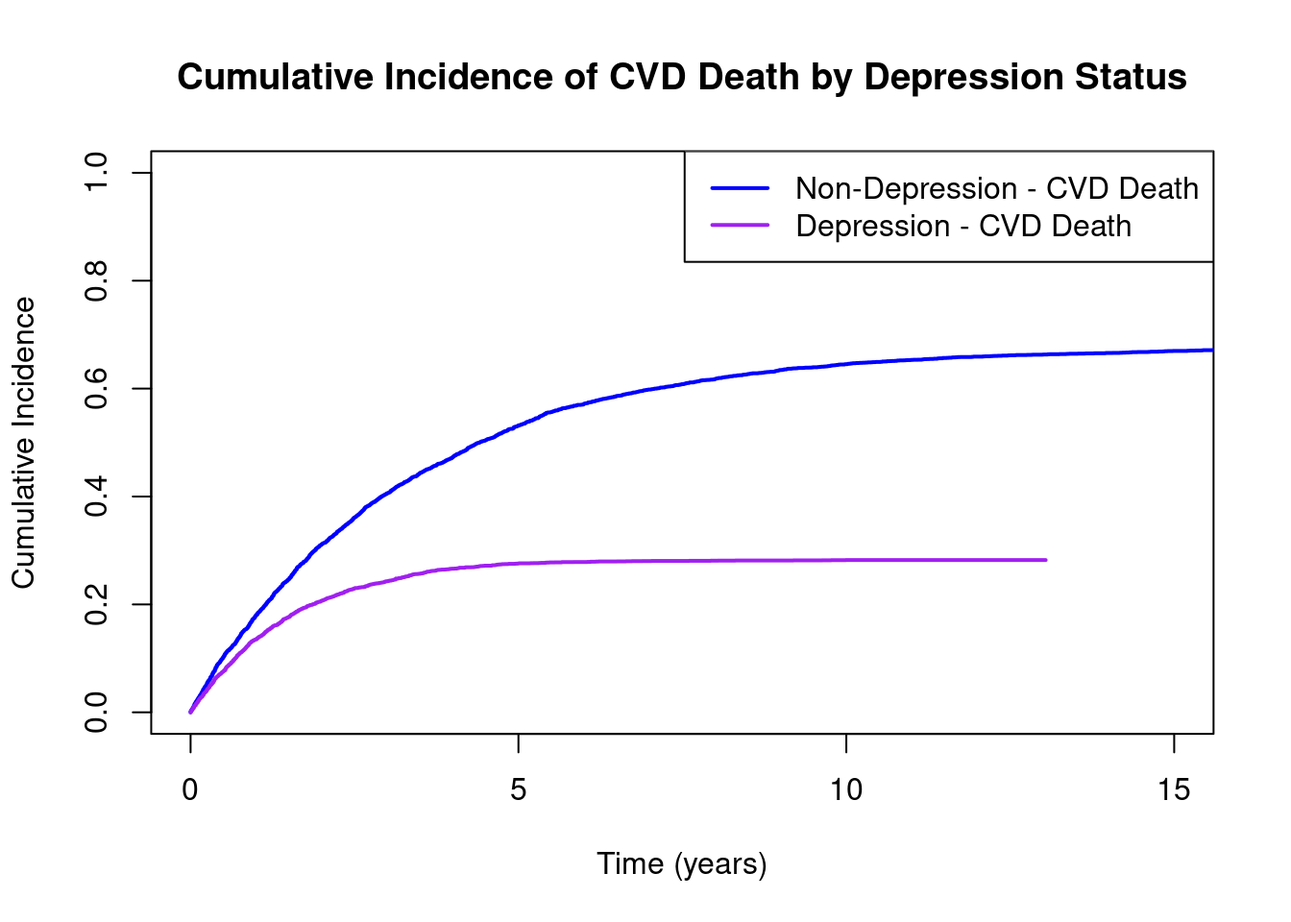
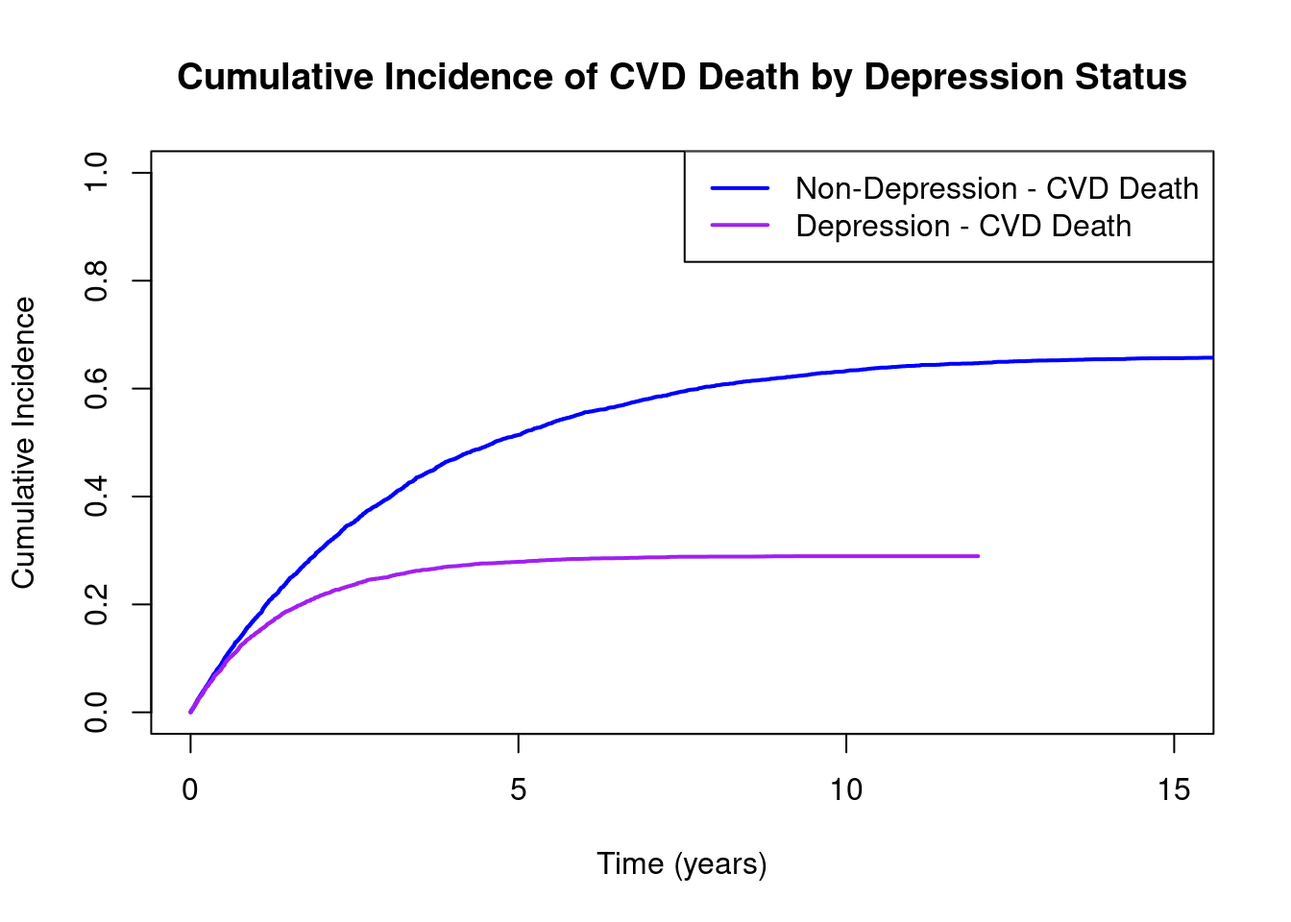
s

diff --git a/docs/posts/2025-01-03-comeptingrisk/index.html b/docs/posts/2025-01-03-comeptingrisk/index.html
@@ -208,8 +208,12 @@ window.Quarto = {
   <ul class="collapse">
 <li><a href="#fine-gray-method" id="toc-fine-gray-method" class="nav-link" data-scroll-target="#fine-gray-method">Fine-Gray Method</a></li>
   <li><a href="#fine-gray-method-%EC%99%80-%EC%A0%84%ED%86%B5%EC%A0%81-%EC%83%9D%EC%A1%B4%ED%95%A8%EC%88%98-%EB%B9%84%EA%B5%90" id="toc-fine-gray-method-와-전통적-생존함수-비교" class="nav-link" data-scroll-target="#fine-gray-method-%EC%99%80-%EC%A0%84%ED%86%B5%EC%A0%81-%EC%83%9D%EC%A1%B4%ED%95%A8%EC%88%98-%EB%B9%84%EA%B5%90">Fine-Gray Method 와 전통적 생존함수 비교</a></li>
-  <li><a href="#how-to-interpret" id="toc-how-to-interpret" class="nav-link" data-scroll-target="#how-to-interpret">How to Interpret</a></li>
-  <li><a href="#ps.-censoring%EC%9D%B4-%EC%A1%B4%EC%9E%AC%ED%95%98%EB%8A%94-%EA%B2%BD%EC%9A%B0" id="toc-ps.-censoring이-존재하는-경우" class="nav-link" data-scroll-target="#ps.-censoring%EC%9D%B4-%EC%A1%B4%EC%9E%AC%ED%95%98%EB%8A%94-%EA%B2%BD%EC%9A%B0">PS. Censoring이 존재하는 경우</a></li>
+  <li>
+<a href="#how-to-interpret" id="toc-how-to-interpret" class="nav-link" data-scroll-target="#how-to-interpret">How to Interpret</a>
+  <ul class="collapse">
+<li><a href="#ps.-censoring%EC%9D%B4-%EC%A1%B4%EC%9E%AC%ED%95%98%EB%8A%94-%EA%B2%BD%EC%9A%B0" id="toc-ps.-censoring이-존재하는-경우" class="nav-link" data-scroll-target="#ps.-censoring%EC%9D%B4-%EC%A1%B4%EC%9E%AC%ED%95%98%EB%8A%94-%EA%B2%BD%EC%9A%B0">PS. Censoring이 존재하는 경우</a></li>
+  </ul>
+</li>
   </ul>
 </li>
   </ul></nav>
@@ -314,41 +318,27 @@ h_k^{sd}(t) = \lim_{\Delta t \to 0} \frac{P(t \leq T &lt; t+\Delta t, \text{Caus
 <span><span class="fu"><a href="https://rdrr.io/r/utils/head.html">head</a></span><span class="op">(</span><span class="va">sample_data</span>, n<span class="op">=</span> <span class="fl">15</span><span class="op">)</span></span></code><button title="Copy to Clipboard" class="code-copy-button"><i class="bi"></i></button></pre></div>
 <div class="cell-output cell-output-stdout">
 <pre><code>   ID  Time Event    Sex Depression CVD_time
-1   1  1.00     1   Male         No     1.00
-2   2  3.30     1 Female         No     3.30
-3   3  0.01     1   Male         No     0.01
-4   4  0.41     1   Male         No     0.41
-5   5  1.24     2 Female         No     5.22
-6   6  2.87     1 Female         No     2.87
-7   7  8.35     2 Female         No    21.07
-8   8  0.52     1 Female         No     0.52
-9   9  0.31     2 Female         No    17.83
-10 10 18.72     1 Female         No    18.72
-11 11  1.11     2 Female         No     4.05
-12 12  9.36     1 Female         No     9.36
-13 13  0.68     1 Female         No     0.68
-14 14  5.99     1 Female         No     5.99
-15 15  2.20     1   Male         No     2.20</code></pre>
+1   1  0.09     1 Female         No     0.09
+2   2  9.70     1   Male         No     9.70
+3   3  0.55     1 Female         No     0.55
+4   4  3.14     2   Male         No     5.61
+5   5  0.21     1 Female         No     0.21
+6   6  7.83     2 Female         No     9.28
+7   7 11.03     2 Female         No    13.14
+8   8  0.15     2 Female         No     0.53
+9   9  4.45     1 Female         No     4.45
+10 10  0.64     1   Male         No     0.64
+11 11  9.53     1   Male         No     9.53
+12 12  1.11     1 Female         No     1.11
+13 13  7.09     1 Female         No     7.09
+14 14  7.75     1   Male         No     7.75
+15 15  7.96     2   Male         No    18.80</code></pre>
 </div>
 </div>
 <p>데이터에서 Time은 Death(CVD, non-CVD 포함)가 발생한 시점입니다. R의 cmprsk 패키지를 통해 fine gray method로 분석을 진행하고, 전통적 생존 분석또한 함께 진행해보겠습니다.</p>
 <div class="cell">
-<div class="sourceCode" id="cb3"><pre class="downlit sourceCode r code-with-copy"><code class="sourceCode R"><span><span class="kw"><a href="https://rdrr.io/r/base/library.html">library</a></span><span class="op">(</span><span class="va"><a href="https://dplyr.tidyverse.org">dplyr</a></span><span class="op">)</span>;<span class="kw"><a href="https://rdrr.io/r/base/library.html">library</a></span><span class="op">(</span><span class="va"><a href="https://github.com/therneau/survival">survival</a></span><span class="op">)</span>;<span class="kw"><a href="https://rdrr.io/r/base/library.html">library</a></span><span class="op">(</span><span class="va"><a href="https://github.com/jinseob2kim/jstable">jstable</a></span><span class="op">)</span></span></code><button title="Copy to Clipboard" class="code-copy-button"><i class="bi"></i></button></pre></div>
-<div class="cell-output cell-output-stderr">
-<pre><code>
-Attaching package: 'dplyr'</code></pre>
-</div>
-<div class="cell-output cell-output-stderr">
-<pre><code>The following objects are masked from 'package:stats':
-
-    filter, lag</code></pre>
-</div>
-<div class="cell-output cell-output-stderr">
-<pre><code>The following objects are masked from 'package:base':
-
-    intersect, setdiff, setequal, union</code></pre>
-</div>
-<div class="sourceCode" id="cb7"><pre class="downlit sourceCode r code-with-copy"><code class="sourceCode R"><span><span class="va">sample_data</span> <span class="op">&lt;-</span> <span class="va">sample_data</span> <span class="op"><a href="https://magrittr.tidyverse.org/reference/pipe.html">%&gt;%</a></span></span>
+<div class="sourceCode" id="cb3"><pre class="downlit sourceCode r code-with-copy"><code class="sourceCode R"><span><span class="kw"><a href="https://rdrr.io/r/base/library.html">library</a></span><span class="op">(</span><span class="va"><a href="https://dplyr.tidyverse.org">dplyr</a></span><span class="op">)</span>;<span class="kw"><a href="https://rdrr.io/r/base/library.html">library</a></span><span class="op">(</span><span class="va"><a href="https://github.com/therneau/survival">survival</a></span><span class="op">)</span>;<span class="kw"><a href="https://rdrr.io/r/base/library.html">library</a></span><span class="op">(</span><span class="va"><a href="https://github.com/jinseob2kim/jstable">jstable</a></span><span class="op">)</span></span>
+<span><span class="va">sample_data</span> <span class="op">&lt;-</span> <span class="va">sample_data</span> <span class="op"><a href="https://magrittr.tidyverse.org/reference/pipe.html">%&gt;%</a></span></span>
 <span>  <span class="fu"><a href="https://dplyr.tidyverse.org/reference/mutate.html">mutate</a></span><span class="op">(</span></span>
 <span>    Sex_num <span class="op">=</span> <span class="fu"><a href="https://rdrr.io/r/base/ifelse.html">ifelse</a></span><span class="op">(</span><span class="va">Sex</span> <span class="op">==</span> <span class="st">"Male"</span>, <span class="fl">1</span>, <span class="fl">0</span><span class="op">)</span>,</span>
 <span>    Depression_num <span class="op">=</span> <span class="fu"><a href="https://rdrr.io/r/base/ifelse.html">ifelse</a></span><span class="op">(</span><span class="va">Depression</span> <span class="op">==</span> <span class="st">"Yes"</span>, <span class="fl">1</span>, <span class="fl">0</span><span class="op">)</span></span>
@@ -358,15 +348,15 @@ Attaching package: 'dplyr'</code></pre>
 <span><span class="fu"><a href="https://rdrr.io/pkg/jstable/man/cox2.display.html">cox2.display</a></span><span class="op">(</span><span class="va">cox_csh</span><span class="op">)</span></span></code><button title="Copy to Clipboard" class="code-copy-button"><i class="bi"></i></button></pre></div>
 <div class="cell-output cell-output-stdout">
 <pre><code>$table
-               HR(95%CI)         P value
-Depression_num "0.96 (0.9,1.03)" "0.225"
+               HR(95%CI)          P value
+Depression_num "1.02 (0.95,1.09)" "0.594"
 
 $metric
-                        [,1] [,2]
-&lt;NA&gt;                      NA   NA
-No. of observations 10000.00   NA
-No. of events        4797.00   NA
-AIC                 77407.56   NA
+                     [,1] [,2]
+&lt;NA&gt;                   NA   NA
+No. of observations 10000   NA
+No. of events        4769   NA
+AIC                 77042   NA
 
 $caption
 [1] "Cox model on time ('NA, surv_object_csh, character(0)') to event ('surv_object_csh')"</code></pre>
@@ -374,7 +364,7 @@ $caption
 </div>
 <p>exp(coef= beta)즉 Hazard ratio가 1이고 p-value가 0.936으로, 우울증 여부가 CVD-death에 영향을 미치지 않는 다는 것을 알 수 있습니다. 이는 데이터를 만들때의 가정과 동일하기 때문에 전통적 생존분석은 이를 잘 반영한다는 것을 알 수 있습니다. 이번엔 competing risk를 고려한 fine gray method로 분석을 해보겠습니다.</p>
 <div class="cell">
-<div class="sourceCode" id="cb9"><pre class="downlit sourceCode r code-with-copy"><code class="sourceCode R"><span><span class="kw"><a href="https://rdrr.io/r/base/library.html">library</a></span><span class="op">(</span><span class="va"><a href="https://www.R-project.org">cmprsk</a></span><span class="op">)</span></span>
+<div class="sourceCode" id="cb5"><pre class="downlit sourceCode r code-with-copy"><code class="sourceCode R"><span><span class="kw"><a href="https://rdrr.io/r/base/library.html">library</a></span><span class="op">(</span><span class="va"><a href="https://www.R-project.org">cmprsk</a></span><span class="op">)</span></span>
 <span><span class="va">ftime</span> <span class="op">&lt;-</span> <span class="va">sample_data</span><span class="op">$</span><span class="va">Time</span></span>
 <span><span class="va">fstatus</span> <span class="op">&lt;-</span> <span class="va">sample_data</span><span class="op">$</span><span class="va">Event</span></span>
 <span><span class="va">covariates</span> <span class="op">&lt;-</span> <span class="va">sample_data</span> <span class="op"><a href="https://magrittr.tidyverse.org/reference/pipe.html">%&gt;%</a></span> <span class="fu"><a href="https://dplyr.tidyverse.org/reference/select.html">select</a></span><span class="op">(</span><span class="va">Depression_num</span><span class="op">)</span></span>
@@ -387,19 +377,19 @@ Call:
 crr(ftime = ftime, fstatus = fstatus, cov1 = covariates)
 
                 coef exp(coef) se(coef)     z p-value
-Depression_num -1.08     0.338   0.0332 -32.6       0
+Depression_num -1.02     0.362    0.033 -30.8       0
 
                exp(coef) exp(-coef)  2.5% 97.5%
-Depression_num     0.338       2.96 0.317 0.361
+Depression_num     0.362       2.76 0.339 0.386
 
 Num. cases = 10000
-Pseudo Log-likelihood = -42143 
-Pseudo likelihood ratio test = 1289  on 1 df,</code></pre>
+Pseudo Log-likelihood = -41981 
+Pseudo likelihood ratio test = 1134  on 1 df,</code></pre>
 </div>
 </div>
 <p>exp(coef) 즉 subdistribution hazard ratio가 0.363이고, p value 가 &lt;0.01임으로 우울증이 있는 사람에게는 CVD-death가 덜 발생한다고 해석할 수 있습니다. 우울증 여부가 CVD-death에 영향을 미치지 않게 데이터를 만들었는데 왜 이런 결과가 나왔는지 그리고 서로 다르게 나온 두 결과를 각각 어떻게 해석해야 되는지를 알아보겠습니다. 우울증 환자와 비 우울증 환자에서 CVD-death에 대한 CIF를 한번 그려보도록 하겠습니다.</p>
 <div class="cell">
-<div class="sourceCode" id="cb11"><pre class="downlit sourceCode r code-with-copy"><code class="sourceCode R"><span><span class="va">group</span> <span class="op">&lt;-</span> <span class="va">sample_data</span><span class="op">$</span><span class="va">Depression_num</span></span>
+<div class="sourceCode" id="cb7"><pre class="downlit sourceCode r code-with-copy"><code class="sourceCode R"><span><span class="va">group</span> <span class="op">&lt;-</span> <span class="va">sample_data</span><span class="op">$</span><span class="va">Depression_num</span></span>
 <span><span class="va">cif_cvd</span> <span class="op">&lt;-</span> <span class="fu"><a href="https://rdrr.io/pkg/cmprsk/man/cuminc.html">cuminc</a></span><span class="op">(</span><span class="va">ftime</span>, <span class="va">fstatus</span>, group <span class="op">=</span> <span class="va">group</span>, cencode <span class="op">=</span> <span class="fl">0</span><span class="op">)</span></span>
 <span><span class="fu"><a href="https://rdrr.io/r/graphics/plot.default.html">plot</a></span><span class="op">(</span><span class="fl">1</span>, type <span class="op">=</span> <span class="st">"n"</span>, xlab <span class="op">=</span> <span class="st">"Time (years)"</span>, ylab <span class="op">=</span> <span class="st">"Cumulative Incidence"</span>,</span>
 <span>     xlim <span class="op">=</span> <span class="fu"><a href="https://rdrr.io/r/base/c.html">c</a></span><span class="op">(</span><span class="fl">0</span>, <span class="fl">15</span><span class="op">)</span>, ylim <span class="op">=</span> <span class="fu"><a href="https://rdrr.io/r/base/c.html">c</a></span><span class="op">(</span><span class="fl">0</span>, <span class="fl">1</span><span class="op">)</span>,</span>
@@ -421,7 +411,7 @@ Pseudo likelihood ratio test = 1289  on 1 df,</code></pre>
 </div>
 <p>우울증 여부가 CVD-death에 영향을 미치지 않는다 하더라고, 우울증 환자에게서 CVD-death가 덜 발생한다는 것을 관찰할 수 있습니다. 이는 우울증 환자에서 이미 non-CVD death를 경험하여 CVD-death를 경험할 수 없기 때문이라는 것을 CVD, non-CVD death에 대한 CIF로 알아볼 수 있습니다.</p>
 <div class="cell">
-<div class="sourceCode" id="cb12"><pre class="downlit sourceCode r code-with-copy"><code class="sourceCode R"><span><span class="fu"><a href="https://rdrr.io/r/graphics/plot.default.html">plot</a></span><span class="op">(</span><span class="fl">1</span>, type <span class="op">=</span> <span class="st">"n"</span>, xlab <span class="op">=</span> <span class="st">"Time (years)"</span>, ylab <span class="op">=</span> <span class="st">"Cumulative Incidence"</span>,</span>
+<div class="sourceCode" id="cb8"><pre class="downlit sourceCode r code-with-copy"><code class="sourceCode R"><span><span class="fu"><a href="https://rdrr.io/r/graphics/plot.default.html">plot</a></span><span class="op">(</span><span class="fl">1</span>, type <span class="op">=</span> <span class="st">"n"</span>, xlab <span class="op">=</span> <span class="st">"Time (years)"</span>, ylab <span class="op">=</span> <span class="st">"Cumulative Incidence"</span>,</span>
 <span>     xlim <span class="op">=</span> <span class="fu"><a href="https://rdrr.io/r/base/c.html">c</a></span><span class="op">(</span><span class="fl">0</span>, <span class="fl">15</span><span class="op">)</span>, ylim <span class="op">=</span> <span class="fu"><a href="https://rdrr.io/r/base/c.html">c</a></span><span class="op">(</span><span class="fl">0</span>, <span class="fl">1</span><span class="op">)</span>,</span>
 <span>     main <span class="op">=</span> <span class="st">"Cumulative Incidence of CVD Death by Depression Status"</span><span class="op">)</span></span>
 <span><span class="fu"><a href="https://rdrr.io/r/graphics/lines.html">lines</a></span><span class="op">(</span><span class="va">cif_cvd</span><span class="op">[[</span><span class="fl">1</span><span class="op">]</span><span class="op">]</span><span class="op">$</span><span class="va">time</span>, <span class="va">cif_cvd</span><span class="op">[[</span><span class="fl">1</span><span class="op">]</span><span class="op">]</span><span class="op">$</span><span class="va">est</span>, col <span class="op">=</span> <span class="st">"blue"</span>, lty <span class="op">=</span> <span class="fl">1</span>, lwd <span class="op">=</span> <span class="fl">2</span><span class="op">)</span></span>
@@ -444,7 +434,7 @@ Pseudo likelihood ratio test = 1289  on 1 df,</code></pre>
 </div>
 <p>실제로 Depression 군에서는 non-CVD death가 급격하게 많이 발생하여, CVD-death의 CIF가 낮게 나오고 있다는 것을 확인 할 수 있습니다. non-CVD death가 발생하지 않은 경우를 가정하여 만들어 놓은 CVD_time변수로 Depression군과 non-Depression 군의 CIF를 비교해보도록 하겠습니다.</p>
 <div class="cell">
-<div class="sourceCode" id="cb13"><pre class="downlit sourceCode r code-with-copy"><code class="sourceCode R"><span><span class="kw"><a href="https://rdrr.io/r/base/library.html">library</a></span><span class="op">(</span><span class="va"><a href="https://www.R-project.org">cmprsk</a></span><span class="op">)</span></span>
+<div class="sourceCode" id="cb9"><pre class="downlit sourceCode r code-with-copy"><code class="sourceCode R"><span><span class="kw"><a href="https://rdrr.io/r/base/library.html">library</a></span><span class="op">(</span><span class="va"><a href="https://www.R-project.org">cmprsk</a></span><span class="op">)</span></span>
 <span><span class="va">ftime</span> <span class="op">&lt;-</span> <span class="va">sample_data</span><span class="op">$</span><span class="va">CVD_time</span></span>
 <span><span class="va">fstatus</span> <span class="op">&lt;-</span> <span class="fl">1</span></span>
 <span><span class="va">group</span> <span class="op">&lt;-</span> <span class="va">sample_data</span><span class="op">$</span><span class="va">Depression_num</span></span>
@@ -469,10 +459,10 @@ Pseudo likelihood ratio test = 1289  on 1 df,</code></pre>
 <p>두개의 그래프가 거의 일치하는 것을 확인할 수 있습니다. 즉 Competing risk의 존재는, 실제로 우울증이 CVD death에 영향을 미치지 않더라고, CIF에는 변화를 줄 수 있다는 것을 확인할 수 있습니다.</p>
 </section><section id="how-to-interpret" class="level2"><h2 class="anchored" data-anchor-id="how-to-interpret">How to Interpret</h2>
 <p>지금까지 얻은 정보를 종합하여, <strong>cause-specific hazard</strong>와 <strong>subdistribution hazard</strong> 함수가 각각 어떤 질문에 적합한지, 어떤 내용을 설명하는지 정리해보겠습니다. <strong>Cause-specific hazard function</strong>은 “A라는 변수가 실제로 B에 영향을 미치는가?”와 같은 <strong>원인적(etiologic)</strong> 질문에 더 적합한 함수입니다. 예를 들어, “우울증이 CVD 사망을 유발하는가?”라는 질문에 답하기 위해서는 cause-specific hazard function을 사용하는 것이 더 적절할 수 있습니다. 반면, <strong>subdistribution hazard ratio</strong>는 “우울증이 CVD 사망의 발생률에 어떤 영향을 미치는가?”와 같은 <strong>예후(prognostic)</strong> 질문에 더 적합한 함수입니다. 이는 subdistribution hazard ratio가 <strong>Cumulative Incidence Function (CIF)</strong>을 직접적으로 추정하기 때문에, CIF 함수와 긴밀하게 연관되어 있습니다. 따라서 예후를 예측하는 측면에서는 Fine-Gray 방법을 이용한 분석이, 원인을 분석하는 측면에서는 전통적인 생존 분석이 더 적절합니다. 두 분석 결과를 함께 고려함으로써, 경쟁 위험이 존재하는 상황에서 관심 있는 사건에 영향을 미치는 요인들에 대한 포괄적인 분석을 수행할 수 있습니다.</p>
-</section><section id="ps.-censoring이-존재하는-경우" class="level2"><h2 class="anchored" data-anchor-id="ps.-censoring이-존재하는-경우">PS. Censoring이 존재하는 경우</h2>
+<section id="ps.-censoring이-존재하는-경우" class="level3"><h3 class="anchored" data-anchor-id="ps.-censoring이-존재하는-경우">PS. Censoring이 존재하는 경우</h3>
 <p>Subdistribution hazard function을 살펴볼 때, censoring이 존재하지 않고 환자를 이벤트가 발생할 때까지 관찰할 수 있다는 가정(complete data로 통칭)하에 risk set이 정의가 되었습니다. Censoring이 존재하는 경우 risk set이 어떻게 존재하는지 알아보겠습니다. Complete data의 경우 competing risk가 발생한 환자도, 발생한 시점 외에도 계속 한명의 존재로 risk set에 남아있다는 것을, 앞선 subdistribution hazard function의 유도과정에서 살펴보았습니다. Censoring이 생기는 경우 IPCW(Inverse probability censor weighting)이라는 방법을 통해, censoring이 된 환자의 예후를 반영하는 방법을 fine-gray method에서 사용하고 있습니다. 시점 t에서 100명이 생존한 와중에 60명이 censoring되고 40명에게 event가 발생하거나, 관측되거나 했다고 가정해봅시다. Censoring이라는 과정이 환자의 event 발생여부나 baseline에 관계없이 발생한다는 가정이 있다면 남은 40명에게 각각 2.5배의 가중치를 준다면, censoring이 발생하지 않고 100명을 계속 관측하는 것과 동일한 결과를 얻을 수 있다는 것이 IPCW의 방법론입니다. 따라서 시점 t이전에 competing event가 발생한 사람의 경우 여전히 한명으로 risk set에 기여를 하게 되고, 시점 t에서 censoring된 사람들은 2.5배의 가중치를 받아 risk set과 event set에 반영이 됩니다. 즉 competing risk가 발생한 환자들의 경우 여전히 한명으로 risk set에 기여하지만, 실질적으로 기여하는 가중치는 적어진다는 것을 알 수 있습니다. 이를 반영한 것이 survival package의 finegray함수이며, 이를 이용하여 finegray method를 통한 분석 또한 가능합니다.</p>
 <div class="cell">
-<div class="sourceCode" id="cb14"><pre class="downlit sourceCode r code-with-copy"><code class="sourceCode R"><span><span class="kw"><a href="https://rdrr.io/r/base/library.html">library</a></span><span class="op">(</span><span class="va"><a href="https://github.com/therneau/survival">survival</a></span><span class="op">)</span></span>
+<div class="sourceCode" id="cb10"><pre class="downlit sourceCode r code-with-copy"><code class="sourceCode R"><span><span class="kw"><a href="https://rdrr.io/r/base/library.html">library</a></span><span class="op">(</span><span class="va"><a href="https://github.com/therneau/survival">survival</a></span><span class="op">)</span></span>
 <span><span class="va">data</span> <span class="op">&lt;-</span> <span class="va">mgus2</span></span>
 <span><span class="va">data</span><span class="op">$</span><span class="va">etime</span> <span class="op">&lt;-</span> <span class="fu"><a href="https://rdrr.io/r/base/with.html">with</a></span><span class="op">(</span><span class="va">data</span>, <span class="fu"><a href="https://rdrr.io/r/base/ifelse.html">ifelse</a></span><span class="op">(</span><span class="va">pstat</span><span class="op">==</span><span class="fl">0</span>, <span class="va">futime</span>, <span class="va">ptime</span><span class="op">)</span><span class="op">)</span></span>
 <span><span class="va">data</span><span class="op">$</span><span class="va">event</span> <span class="op">&lt;-</span> <span class="fu"><a href="https://rdrr.io/r/base/with.html">with</a></span><span class="op">(</span><span class="va">data</span>, <span class="fu"><a href="https://rdrr.io/r/base/ifelse.html">ifelse</a></span><span class="op">(</span><span class="va">pstat</span><span class="op">==</span><span class="fl">0</span>, <span class="fl">2</span><span class="op">*</span><span class="va">death</span>, <span class="fl">1</span><span class="op">)</span><span class="op">)</span></span>
@@ -498,7 +488,7 @@ Pseudo likelihood ratio test = 1289  on 1 df,</code></pre>
 </div>
 <p>데이터에서 볼 수 있듯이 competing risk가 발생한 환자의 경우 추적 종료까지 risk set에 기여도는 낮아지지만, 끝까지 포함되어 있다는 것을 알 수 있습니다. 또한 얻은 pdata로 기존의 생존분석과 같은 함수를 사용하면, 가중치가 반영되어 fine gray method로 구한 subdistribution hazard function에 대한 coefficient값을 얻을 수 있다는 것을 알 수 있습니다.</p>
 <div class="cell">
-<div class="sourceCode" id="cb16"><pre class="downlit sourceCode r code-with-copy"><code class="sourceCode R"><span><span class="va">fgfit</span> <span class="op">&lt;-</span> <span class="fu"><a href="https://rdrr.io/pkg/survival/man/coxph.html">coxph</a></span><span class="op">(</span><span class="fu"><a href="https://rdrr.io/pkg/survival/man/Surv.html">Surv</a></span><span class="op">(</span><span class="va">fgstart</span>, <span class="va">fgstop</span>, <span class="va">fgstatus</span><span class="op">)</span> <span class="op">~</span> <span class="va">age</span><span class="op">+</span><span class="va">sex</span>,</span>
+<div class="sourceCode" id="cb12"><pre class="downlit sourceCode r code-with-copy"><code class="sourceCode R"><span><span class="va">fgfit</span> <span class="op">&lt;-</span> <span class="fu"><a href="https://rdrr.io/pkg/survival/man/coxph.html">coxph</a></span><span class="op">(</span><span class="fu"><a href="https://rdrr.io/pkg/survival/man/Surv.html">Surv</a></span><span class="op">(</span><span class="va">fgstart</span>, <span class="va">fgstop</span>, <span class="va">fgstatus</span><span class="op">)</span> <span class="op">~</span> <span class="va">age</span><span class="op">+</span><span class="va">sex</span>,</span>
 <span>               weight<span class="op">=</span><span class="va">fgwt</span>, data<span class="op">=</span><span class="va">pdata</span>, model <span class="op">=</span> <span class="cn">T</span><span class="op">)</span></span>
 <span><span class="fu"><a href="https://rdrr.io/r/base/summary.html">summary</a></span><span class="op">(</span><span class="va">fgfit</span><span class="op">)</span></span></code><button title="Copy to Clipboard" class="code-copy-button"><i class="bi"></i></button></pre></div>
 <div class="cell-output cell-output-stdout">
@@ -529,7 +519,7 @@ Score (logrank) test = 7.58  on 2 df,   p=0.02,   Robust = 9.28  p=0.01
 </div>
 
 
-</section></section><div id="quarto-appendix" class="default"><section class="quarto-appendix-contents" id="quarto-citation"><h2 class="anchored quarto-appendix-heading">Citation</h2><div><div class="quarto-appendix-secondary-label">BibTeX citation:</div><pre class="sourceCode code-with-copy quarto-appendix-bibtex"><code class="sourceCode bibtex">@online{jo2025,
+</section></section></section><div id="quarto-appendix" class="default"><section class="quarto-appendix-contents" id="quarto-citation"><h2 class="anchored quarto-appendix-heading">Citation</h2><div><div class="quarto-appendix-secondary-label">BibTeX citation:</div><pre class="sourceCode code-with-copy quarto-appendix-bibtex"><code class="sourceCode bibtex">@online{jo2025,
   author = {Jo, Hyungwoo},
   title = {Competing {Risk} {Analysis}},
   date = {2025-01-03},

diff --git a/docs/index.html b/docs/index.html
@@ -223,7 +223,7 @@ window.Quarto = {
   </div>
 </div>
 <div class="list quarto-listing-default">
-<div class="quarto-post image-right" data-index="0" data-categories="c3RhdGlzdGljcw==" data-listing-date-sort="1735862400000" data-listing-file-modified-sort="1737014552133" data-listing-date-modified-sort="NaN" data-listing-reading-time-sort="11" data-listing-word-count-sort="2039">
+<div class="quarto-post image-right" data-index="0" data-categories="c3RhdGlzdGljcw==" data-listing-date-sort="1735862400000" data-listing-file-modified-sort="1737014844632" data-listing-date-modified-sort="NaN" data-listing-reading-time-sort="11" data-listing-word-count-sort="2042">
 <div class="thumbnail">
 <p><a href="./posts/2025-01-03-comeptingrisk/index.html" class="no-external"></a></p><a href="./posts/2025-01-03-comeptingrisk/index.html" class="no-external">
 <p><img loading="lazy" src="./posts/2025-01-03-comeptingrisk/img/image.png" class="thumbnail-image"></p>
